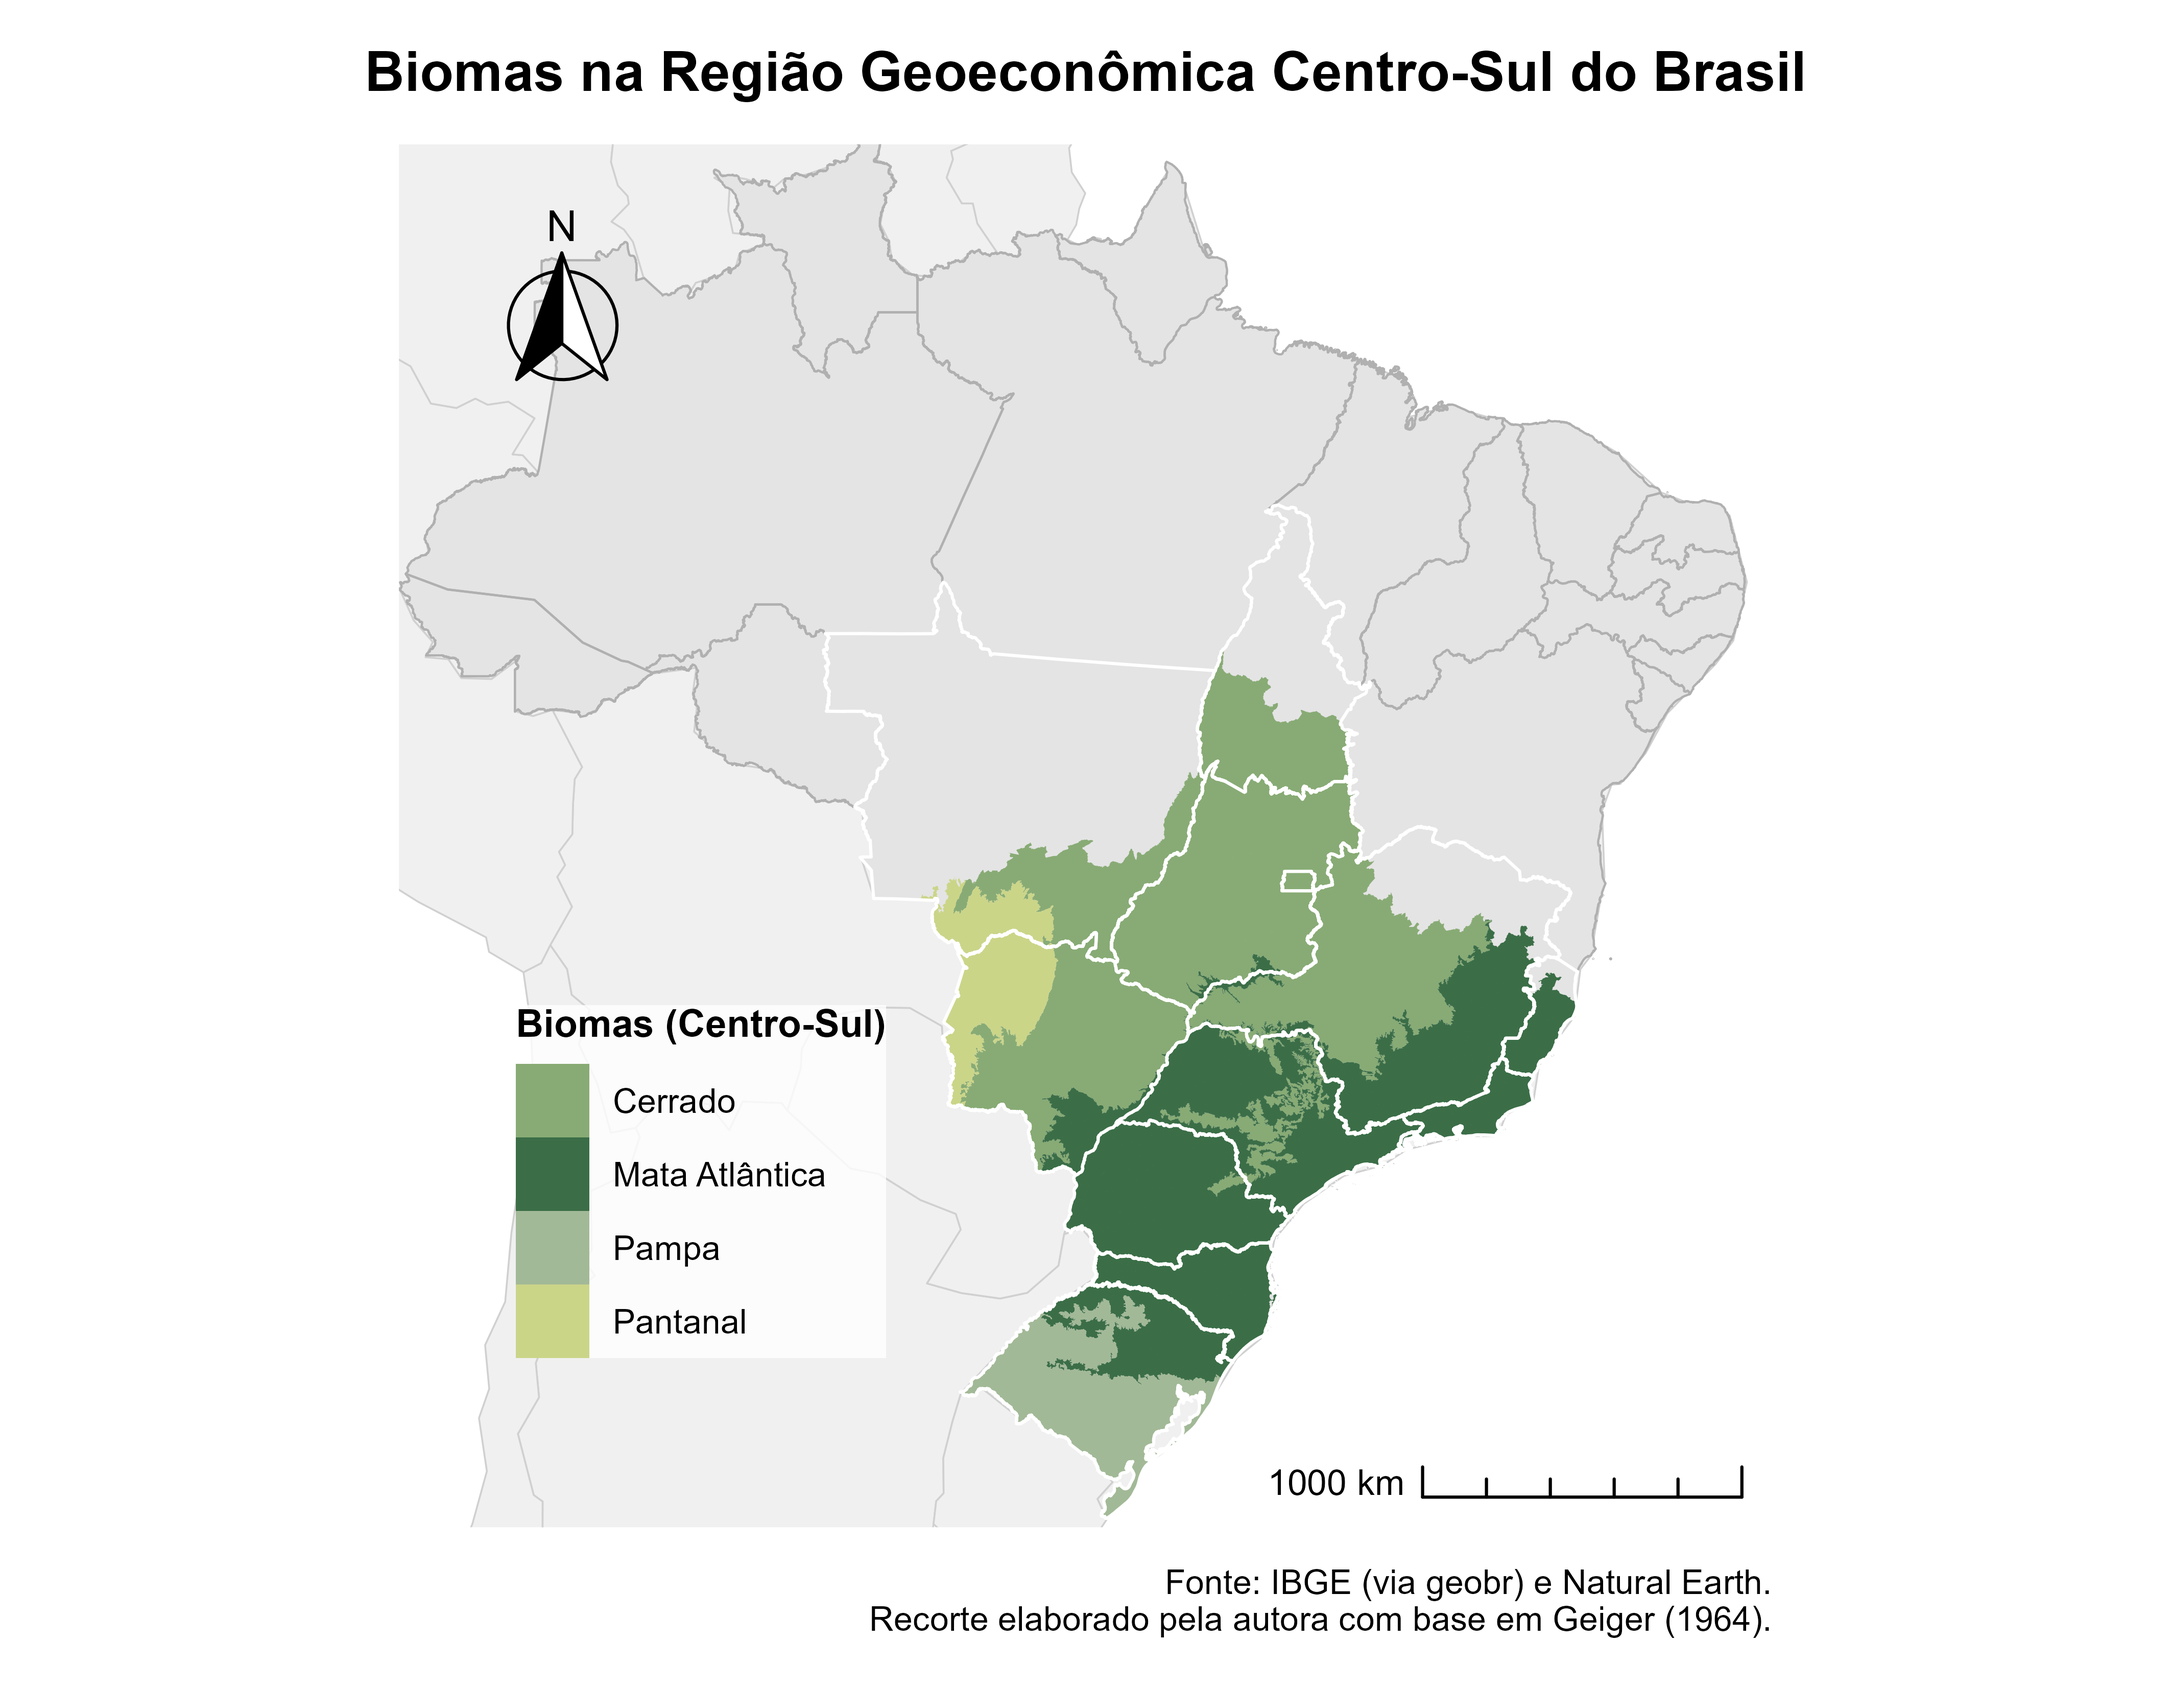
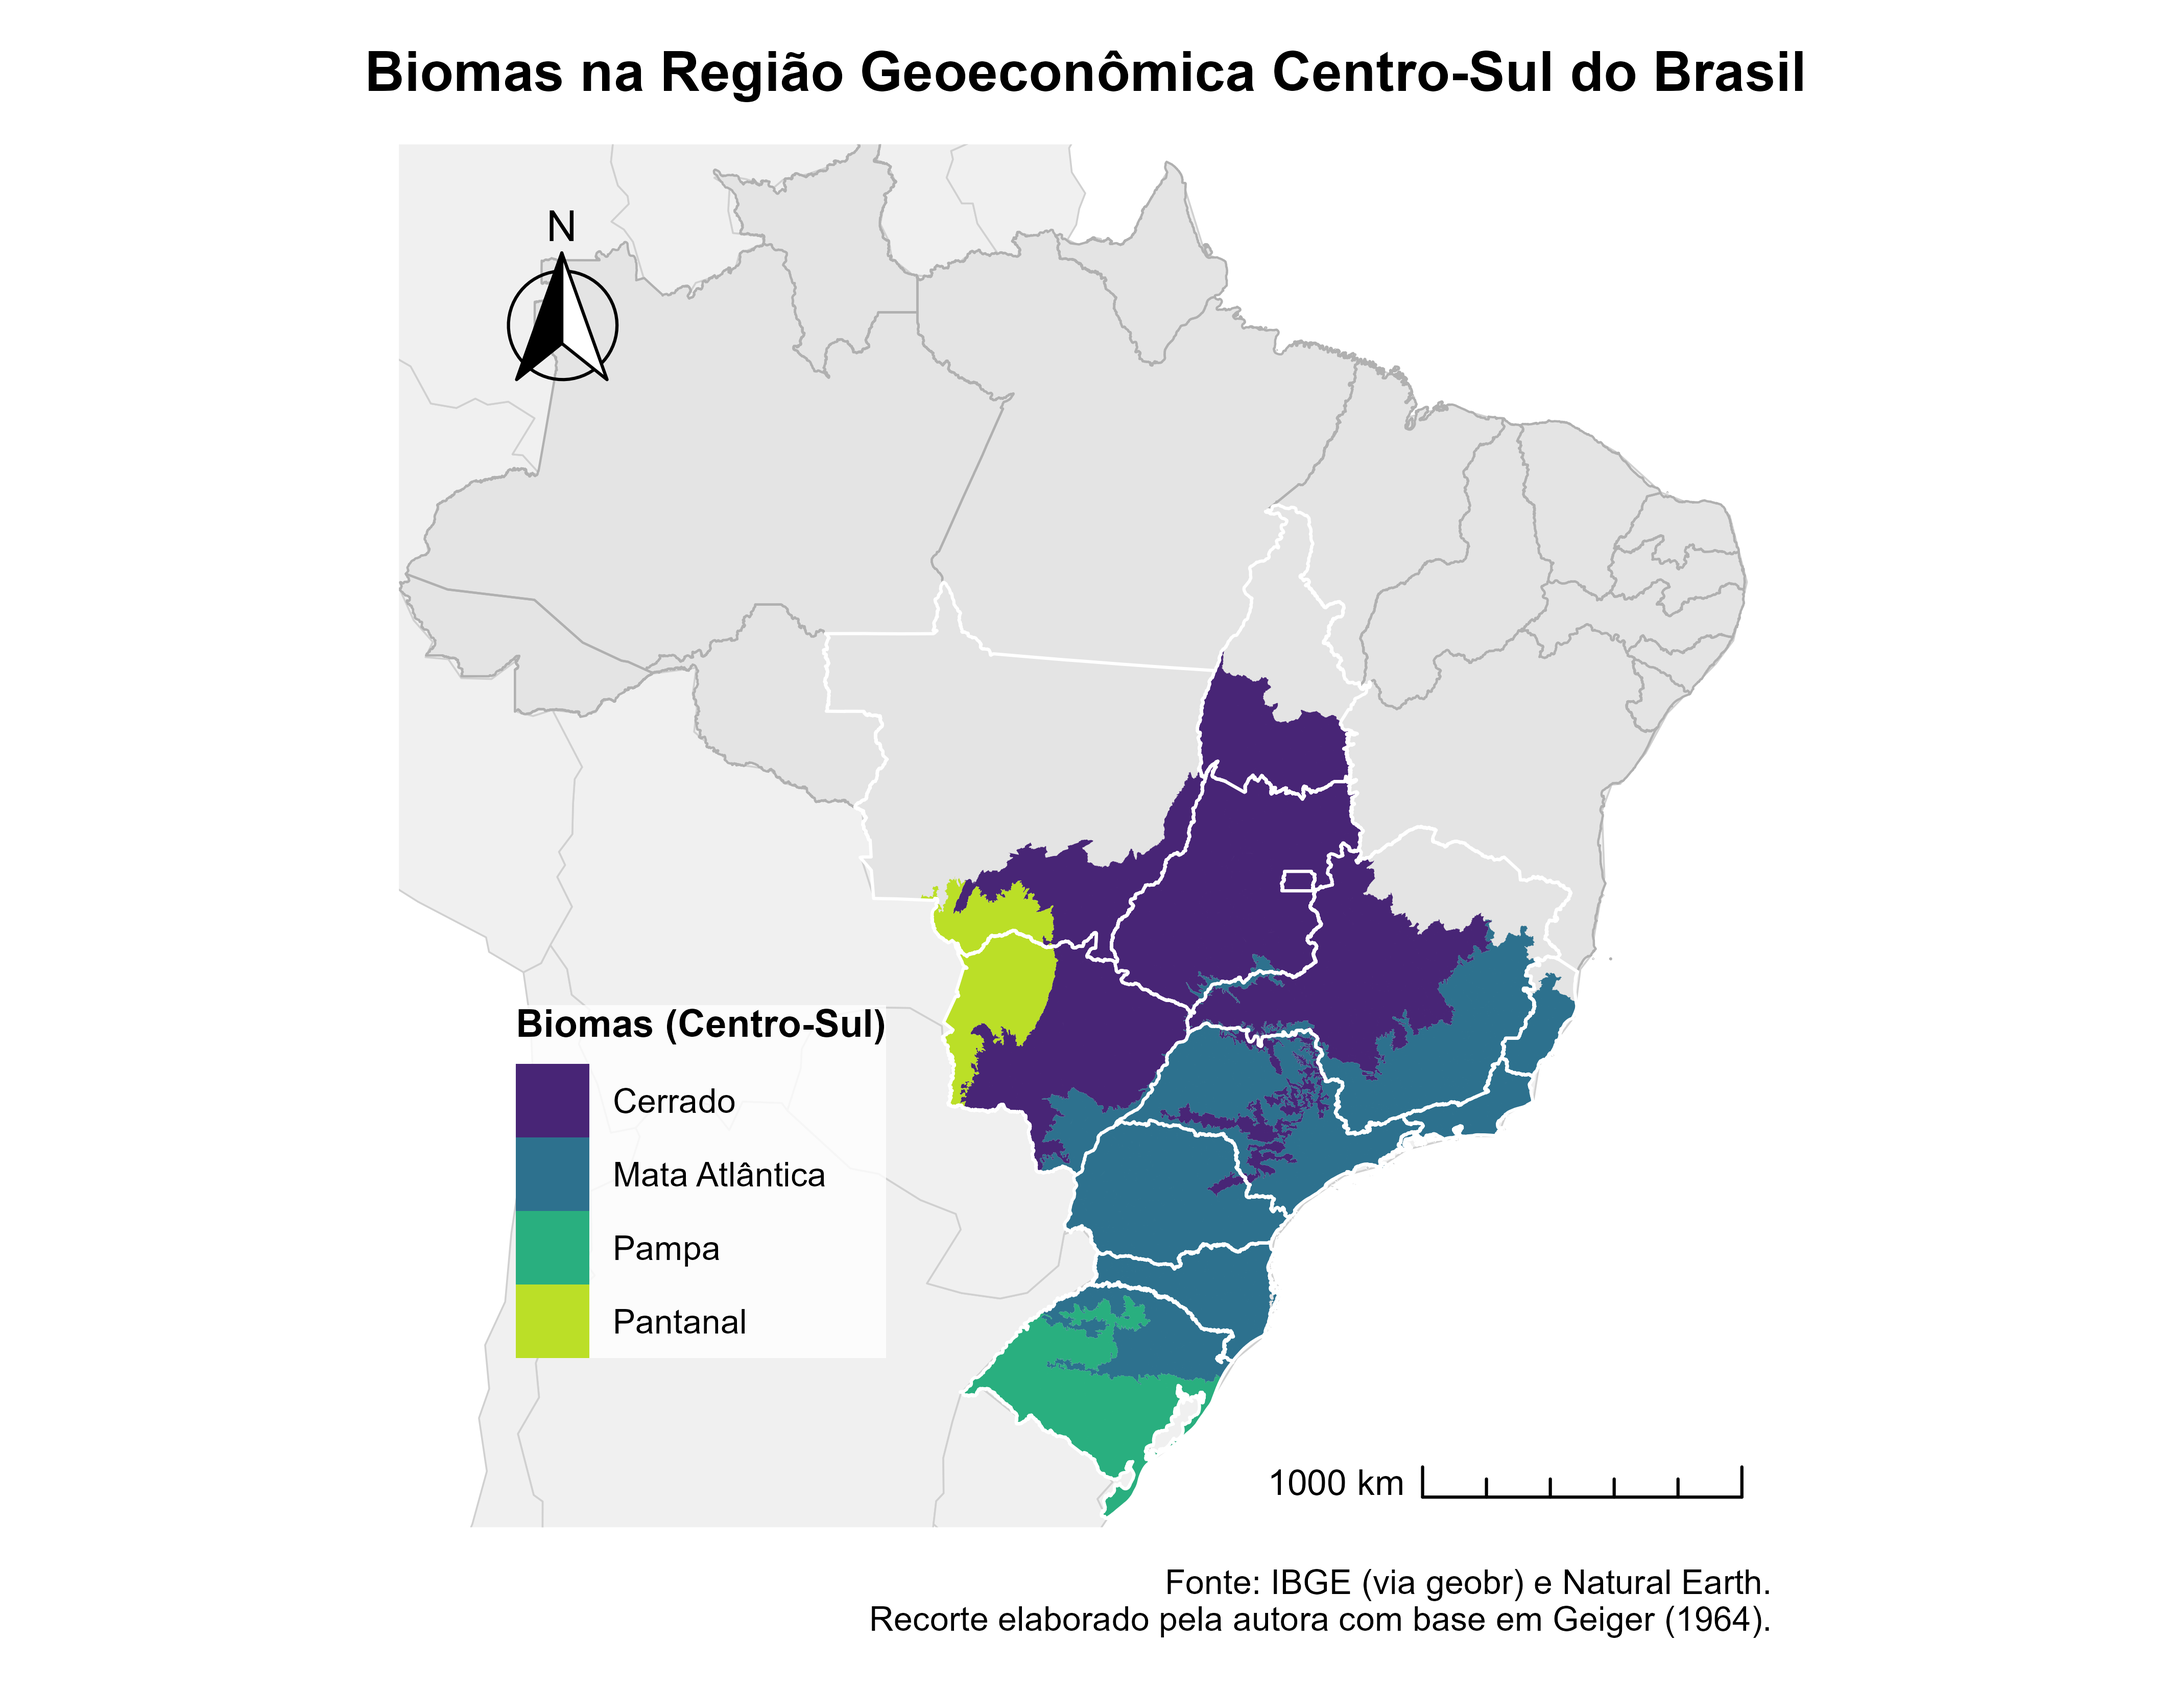
Atualização mapa final acessibilidade

Changed region(s): [[0.4347, 0.3738, 0.7452, 0.9032], [0.2174, 0.6229, 0.2795, 0.8098]]

diff --git a/README.md b/README.md
@@ -637,16 +637,14 @@ figura1 <- ggplot() +
     text_size = 8
   ) +
 
-  # Paleta de Cores dos Biomas
-  scale_fill_manual(
-    name = "Biomas (Centro-Sul)",
-    values = c(
-      "Cerrado"        = "#88AB75",
-      "Mata Atlântica" = "#3B6E47",
-      "Pantanal"       = "#CBD588",
-      "Pampa"          = "#A2B997"
-    )
-  ) +
+ # Paleta acessível para os biomas
+scale_fill_viridis_d(
+  name = "Biomas (Centro-Sul)",
+  option = "D",
+  begin = 0.1,
+  end = 0.9,
+  direction = 1
+) +
 
   # Enquadramento Geográfico
   coord_sf(
